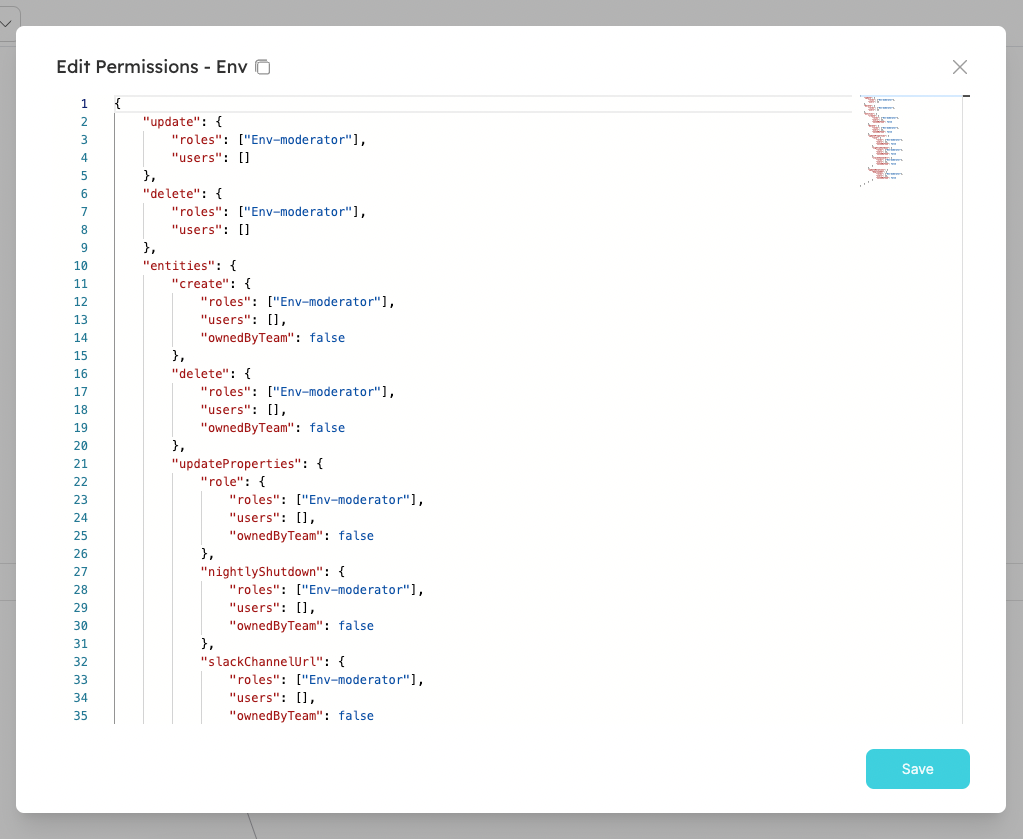
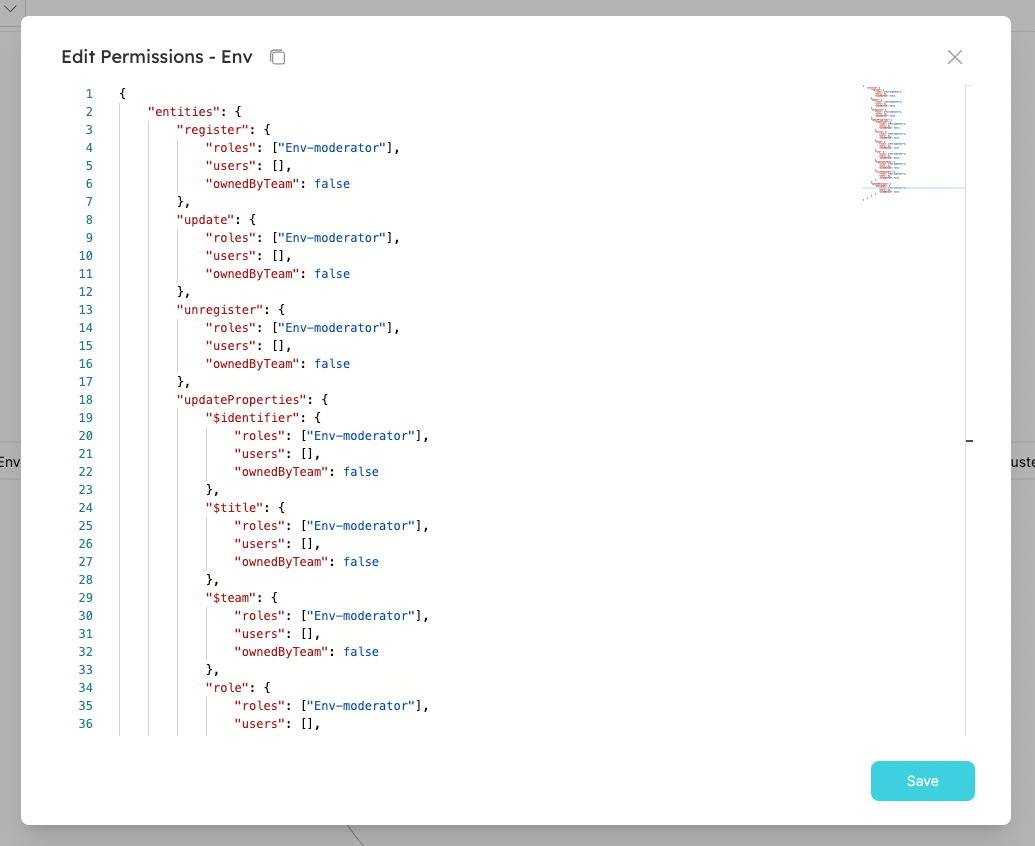
documented the changes in the permissions control

diff --git a/docs/platform-overview/role-based-access-control/permissions-controls.md b/docs/platform-overview/role-based-access-control/permissions-controls.md
@@ -16,11 +16,16 @@ In Port, you can enforce permissions by [Roles](#roles), and/or by [Team Ownersh
 
 There are 3 types of roles. Below are their out-of-the-box permissions:
 
-| Role                     | Description                                                                                                 |
-| ------------------------ | ----------------------------------------------------------------------------------------------------------- |
-| Admin                    | Perform any action on the platform                                                                          |
-| Moderator of a Blueprint | Perform any action on a specific Blueprint and it's Entities. A user can be moderator of several Blueprints |
-| Member                   | Read-only permissions, And permissions to execute Actions                                                   |
+| Role                         | Description                                                                                                    |
+| ---------------------------- | -------------------------------------------------------------------------------------------------------------- |
+| **Admin**                    | Perform any operation on the platform                                                                          |
+| **Moderator** of a Blueprint | Perform any operation on a specific Blueprint and it's Entities. A user can be moderator of several Blueprints |
+| **Member**                   | Read-only permissions, And permissions to execute Actions                                                      |
+
+:::info
+**Moderator** role is dynamically created for each Blueprint in the platform upon creation.
+For example, creating the Blueprint `Env` will create a role named `Env-moderator`, which can perform any operation on the `Env` Blueprint and it's Entities.
+:::
 
 As mentioned above, these permissions are given by default when you first set up your organization, based on the behaviours we learned to be best-practices.
 However, as part of Port's [builder-approach](../../faq/faq.md#whats-a-builder-based-developer-portal), we let you decide and control the permissions you want to grant, in a way that fits your organization best. We'll explore those options down below and in the tutorials section.
@@ -28,9 +33,9 @@ However, as part of Port's [builder-approach](../../faq/faq.md#whats-a-builder-b
 :::info
 In addition to the permissions designated for each role, permissions are also inherited from the role below them:
 
-Admin > Moderator > Member
+**Admin** > **Moderator** > **Member**
 
-For example, if members are allowed to edit `Cluster` Entities, then `Microservices` moderators are also allowed to edit them (admins can edit all Entities under all Blueprints).
+For example, if **Members** are allowed to edit `Cluster` Entities, then `Microservices` **Moderators** are also allowed to edit them (**Admins** can edit all Entities under all Blueprints).
 :::
 
 You can view (and edit) each user’s role in the users table (via the main menu):
@@ -50,11 +55,11 @@ In this section we'll show you a few examples of ways to use permissions in your
 The following configurations, among others, are available when using permissions management:
 
 1. Entities can be made immutable/partially immutable (can only create/delete/modify) for specific users/roles. For example:
-   a. "Deployment" Entities are immutable for all roles, and "Cluster" Entities are editable only by the moderators.
-   b. Members can create a new "Microservice" Entity, but are not permitted to delete a "Microservice" Entity.
-2. Each Entity property/relation can be immutable separately for specific users/roles. For example, the `repository_link` property can be immutable for all roles (except Admin).
-3. Allow specific users/roles to only modify Entities [owned by their team](#setting-permissions-by-team-ownership). For example, members can edit only "Microservices" that belong to their team.
-4. Actions execution grants can be given to specific users or roles. For example, you can allow every Member to create a new "Deployment" Entity but only "Deployment" moderators can perform a day-2 Action of "adding resources".
+   a. `Deployment` Entities are immutable for all roles, and `Cluster` Entities are editable only by the **Moderators**.
+   b. **Members** can create a new `Microservice` Entity, but are not permitted to delete a `Microservice` Entity.
+2. Each Entity property/relation can be immutable separately for specific users/roles. For example, the `repository_link` property can be immutable for all roles (except **Admin**).
+3. Allow specific users/roles to only modify Entities [owned by their team](#setting-permissions-by-team-ownership). For example, **Members** can edit only `Microservices` that belong to their team.
+4. Actions execution grants can be given to specific users or roles. For example, you can allow every **Member** to create a new `Deployment` Entity but only `Deployment` **Moderators** can perform a day-2 Action of "adding resources".
 
 ### Setting permissions for a Blueprint (and its Actions)
 
@@ -68,24 +73,13 @@ This will open the following window:
 
 As you can see, every operation that can be performed on the Blueprint or its Entities is listed in the JSON and can be controlled.
 
-For example, If we want to enable a specific user to update the Blueprint, you can change the JSON as follows:
-
-```json showLineNumbers
-{
-  "update": {
-    "roles": ["Env-moderator"],
-    "users": ["some-user@myorg.com"]
-  }
-}
-```
-
-To enable Members to create Entities of `Env` Blueprint:
+For example, If you want to enable **Members** to register Entities of `Env` Blueprint, you can change the JSON as follows:
 
 ```json showLineNumbers
 {
   "entities": {
-    "create": {
-      "roles": ["Env-moderator", "Member"],
+    "register": {
+      "roles": ["Env-moderator", "Member"], // changed from ["Env-moderator"]
       "users": [],
       "ownedByTeam": false
     }
@@ -93,14 +87,14 @@ To enable Members to create Entities of `Env` Blueprint:
 }
 ```
 
-To allow only Admins to change the property `slackChannelUrl`, remove the Moderator role:
+To allow only **Admins** to change the property `slackChannelUrl`, remove the Moderator role:
 
 ```json showLineNumbers
 {
   "entities": {
     "updateProperties": {
       "slackChannelUrl": {
-        "roles": [],
+        "roles": [], // changed from ["Env-moderator"]
         "users": [],
         "ownedByTeam": false
       }
@@ -109,7 +103,23 @@ To allow only Admins to change the property `slackChannelUrl`, remove the Modera
 }
 ```
 
-By default, `Member` users can execute every new Action of the Blueprint. If you want, you can change it, for example to only allow Moderators (and Admins) to execute the Action `clone_env`:
+To grant permissions for a specific user to edit the `deployedAt` relation, add to the users array:
+
+```json showLineNumbers
+{
+  "entities": {
+    "updateRelations": {
+      "deployedAt": {
+        "roles": ["Env-moderator"],
+        "users": ["some-user@myorg.com"], // changed from []
+        "ownedByTeam": false
+      }
+    }
+  }
+}
+```
+
+By default, **Member** users can execute every new Action of the Blueprint. If you want, you can change it, for example to only allow **Moderators** (and **Admins**) to execute the Action `clone_env`:
 
 ```json showLineNumbers diff
 {
@@ -146,6 +156,54 @@ For example, the following JSON will allow **every user**, regardless of their r
 
 :::info
 The `team` field is not mandatory! You can give a user access to create `Env`, regardless of their team.
+:::
+
+### Global VS granular permissions
+
+When granting write permissions for Entities of a Blueprint, you have 2 levels of control:
+
+1. Global permissions - permission to create/update an Entity as a whole. For example, allowing **Member** users to update `Env` Entities (all the properties and relations).
+2. Granular permissions - controlling which properties and relations a user/role can update when creating or updating an Entity, for example, allowing **Member** users to only update the property `slackChannelUrl` of `Env` Entities.
+
+To apply granular permissions for a Blueprint, use the `updateProperties` and `updateRelations` fields in the JSON.
+The following change will allow **Member** users to update _only_ the `slackChannelUrl` property of `Env` Entities:
+
+```json showLineNumbers
+{
+  "entities": {
+    "updateProperties": {
+      "slackChannelUrl": {
+        "roles": ["Env-moderator", "Member"], // changed from ["Env-moderator"]
+        "users": [],
+        "ownedByTeam": false
+      }
+    }
+  }
+}
+```
+
+If you want to apply global permissions, use the `update` field in the JSON.
+The following change will allow **Member** users to update _every_ property/relation of `Env` Entities that are owned by their team:
+
+```json showLineNumbers
+{
+  "entities": {
+    "update": {
+      "roles": ["Env-moderator"],
+      "users": [],
+      "ownedByTeam": true // changed from false
+    }
+  }
+}
+```
+
+:::caution
+Using global permissions overrides any granular permission that has been set!
+If both are set, then the global setting will be used when evaluating permissions.
+:::
+
+:::info
+`update`, `updateProperties` and `updateRelations` apply for registration as well. So if some user lacks permissions to update some property for example, then he will not have the ability to provide it when registering a new Entity.  
 :::
 
 ## UI behavior
